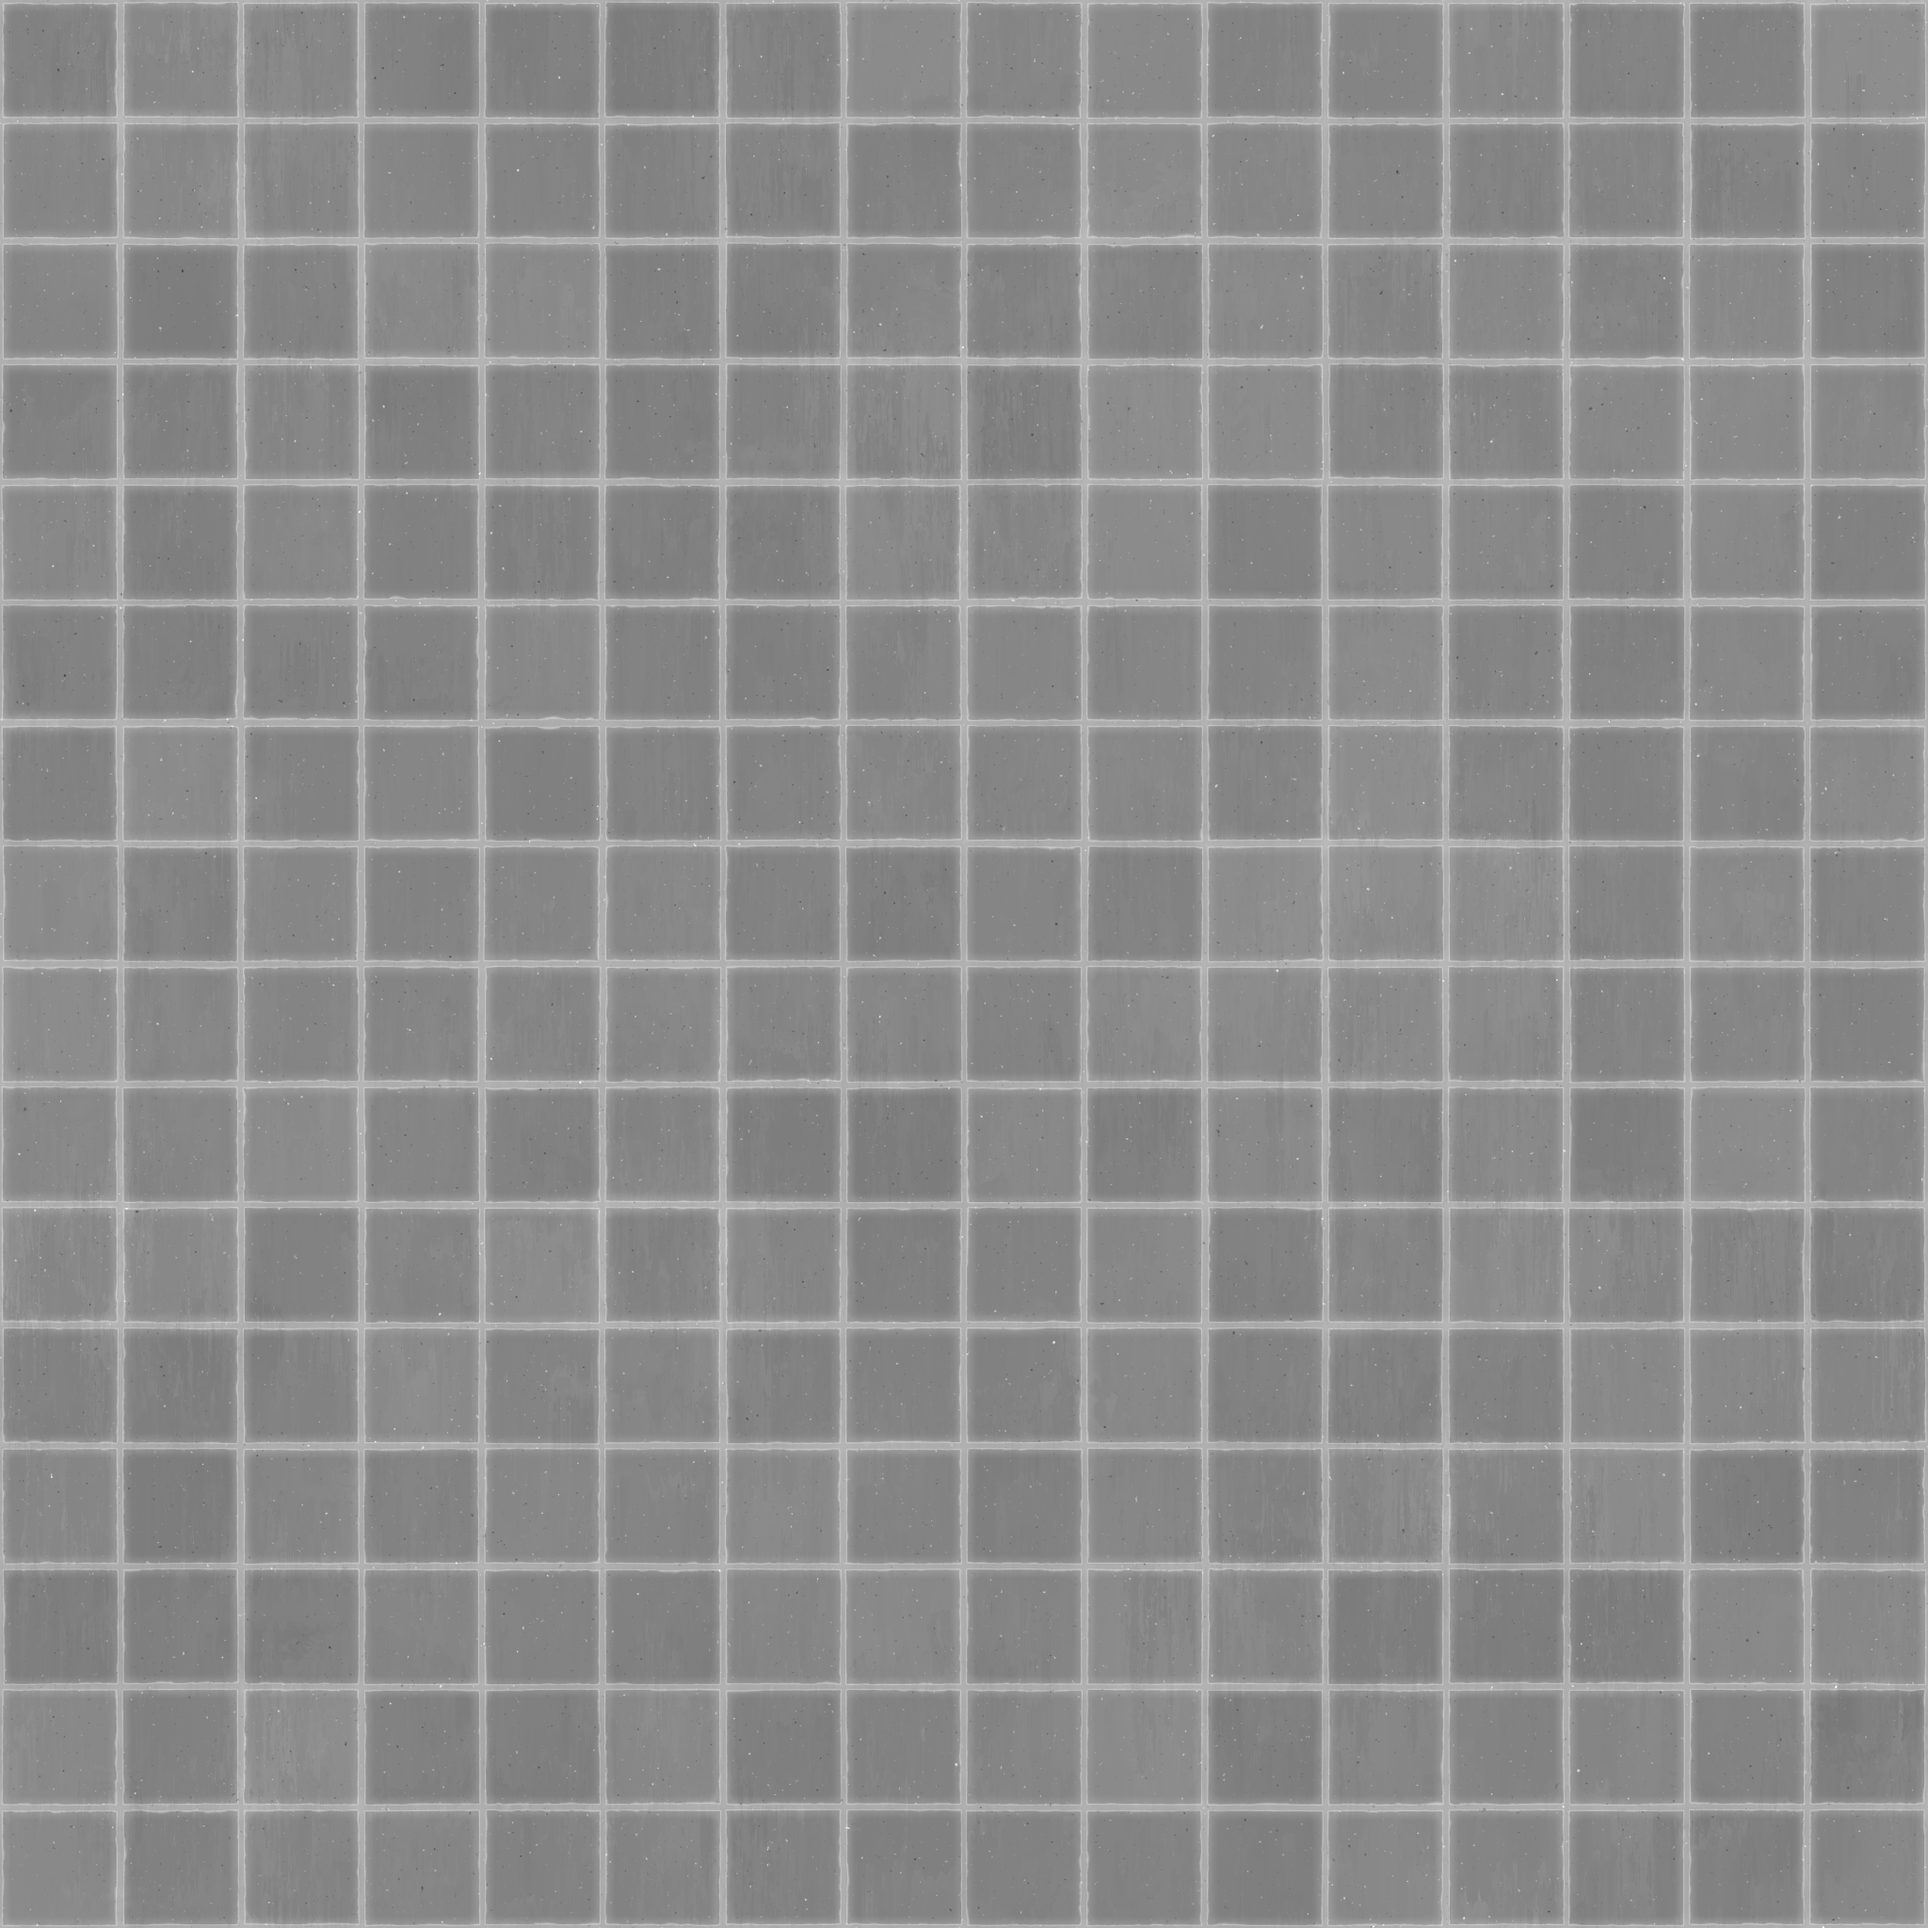
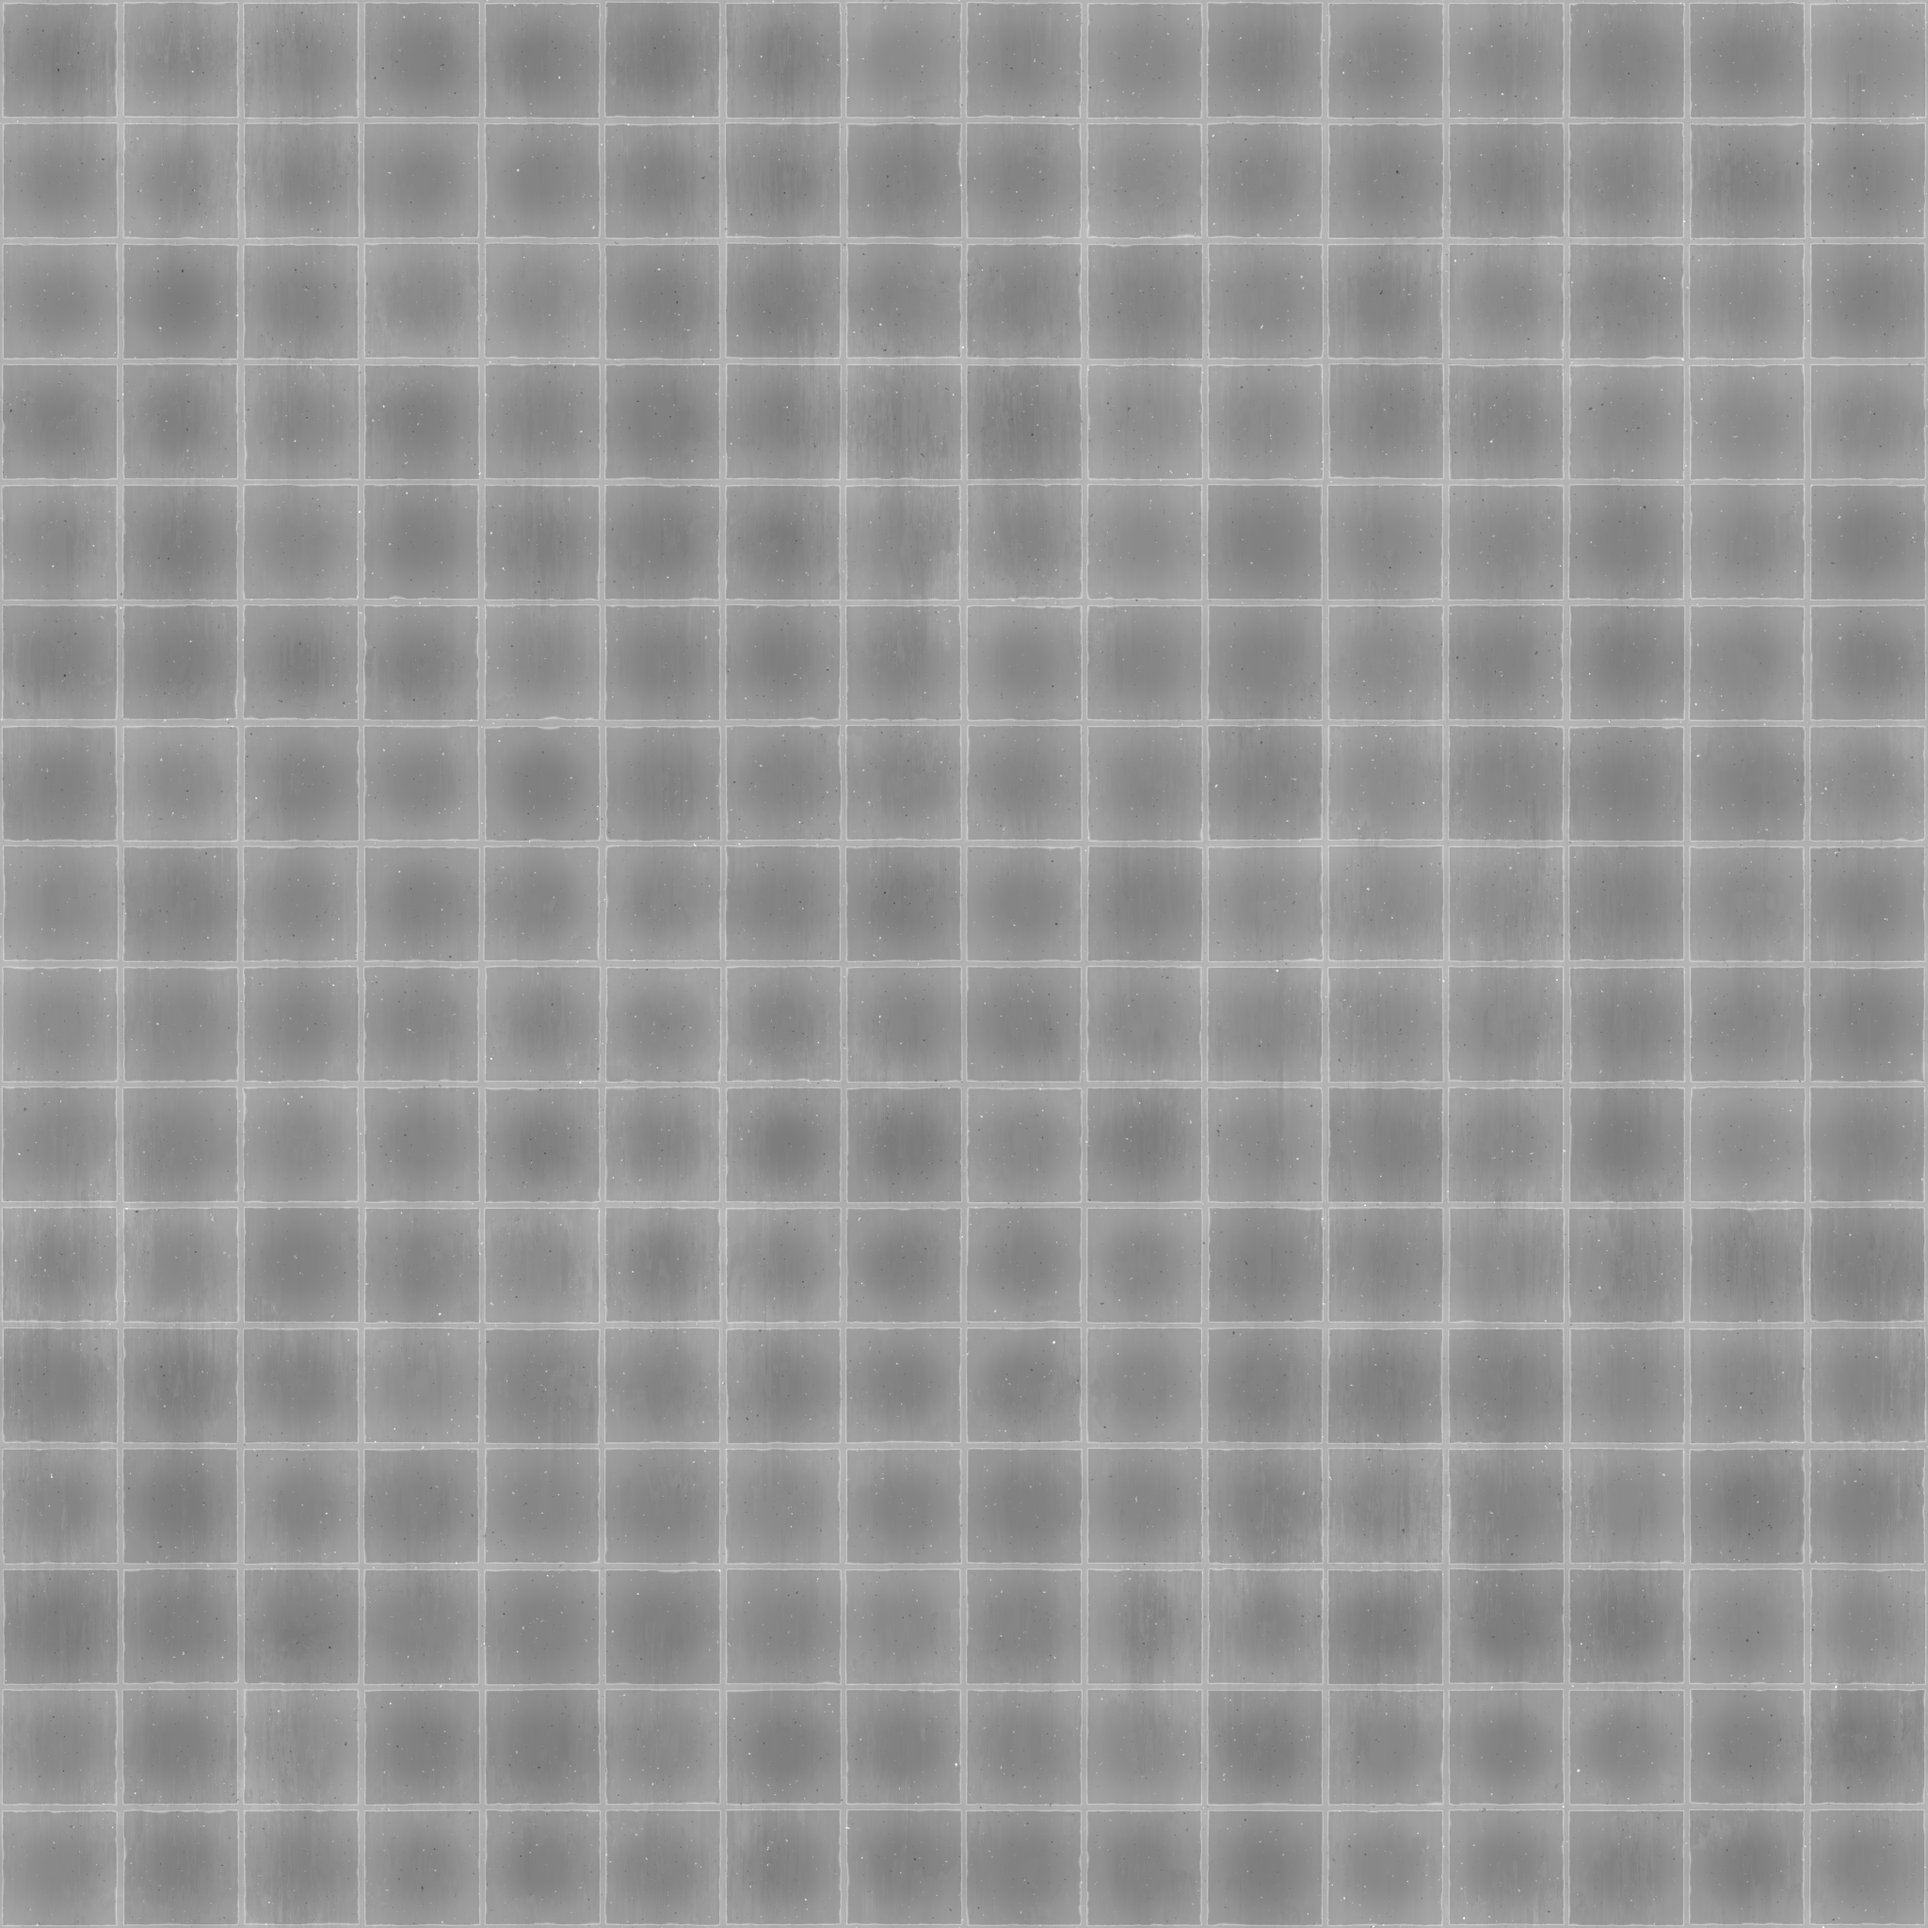
Update texture scale on builder cubes to match old ones

Changed region(s): [[0.3125, 0.625, 0.3438, 0.6562]]

diff --git a/Code/Builder/BuilderGeometry.cs b/Code/Builder/BuilderGeometry.cs
@@ -5,7 +5,7 @@ public sealed class BuilderGeometry
 {
 	static readonly Dictionary<string, Model> Cache = new();
 	// Bump when recipes change so hotload cannot reuse old meshes/collision.
-	public const int GeometryVersion = 4;
+	public const int GeometryVersion = 5;
 	readonly List<Vertex> vertices = new();
 	readonly List<int> indices = new();
 	readonly ModelBuilder builder = Model.Builder;
@@ -37,7 +37,7 @@ public sealed class BuilderGeometry
 		foreach ( var p in new[] { a, b, c } )
 		{
 			indices.Add( vertices.Count );
-			vertices.Add( new Vertex( p, normal, tangent, new Vector4( Vector3.Dot( p, tangent ) / 48, Vector3.Dot( p, bitangent ) / 48, 0, 0 ) ) );
+			vertices.Add( new Vertex( p, normal, tangent, new Vector4( Vector3.Dot( p, tangent ) / BuilderCatalog.Unit, Vector3.Dot( p, bitangent ) / BuilderCatalog.Unit, 0, 0 ) ) );
 		}
 	}
 	void Quad( Vector3 a, Vector3 b, Vector3 c, Vector3 d ) { Triangle( a, b, c ); Triangle( a, c, d ); }

diff --git a/Code/Builder/BuilderCatalog.cs b/Code/Builder/BuilderCatalog.cs
@@ -3,8 +3,8 @@ namespace Sandbox;
 /// <summary>Deterministic, bounded recipes shared by the menu, host, clients and saved games.</summary>
 public static class BuilderCatalog
 {
-	public const float Unit = 48f;
-	public const string DefaultMaterial = "materials/dev/gray_grid_8.vmat";
+	public const float Unit = 96f;
+	public const string DefaultMaterial = "materials/construction/tiles/generic_tiles.vmat";
 	public static readonly string[] Categories = ["Cubes", "Plates", "Triangles", "Tubes", "Misc"];
 	public enum Shape { Box, Triangle, Carved, Trapezium, Tube, HalfPipe, Ring, Bend, PlateHole, Cone, MirroredCone, Sphere, Dome, QuarterDome, Stairs, Parallelogram, Pentagon }
 	public sealed record Piece( string Id, string Category, Shape Kind, Vector3 Size, float Angle = 0 );
